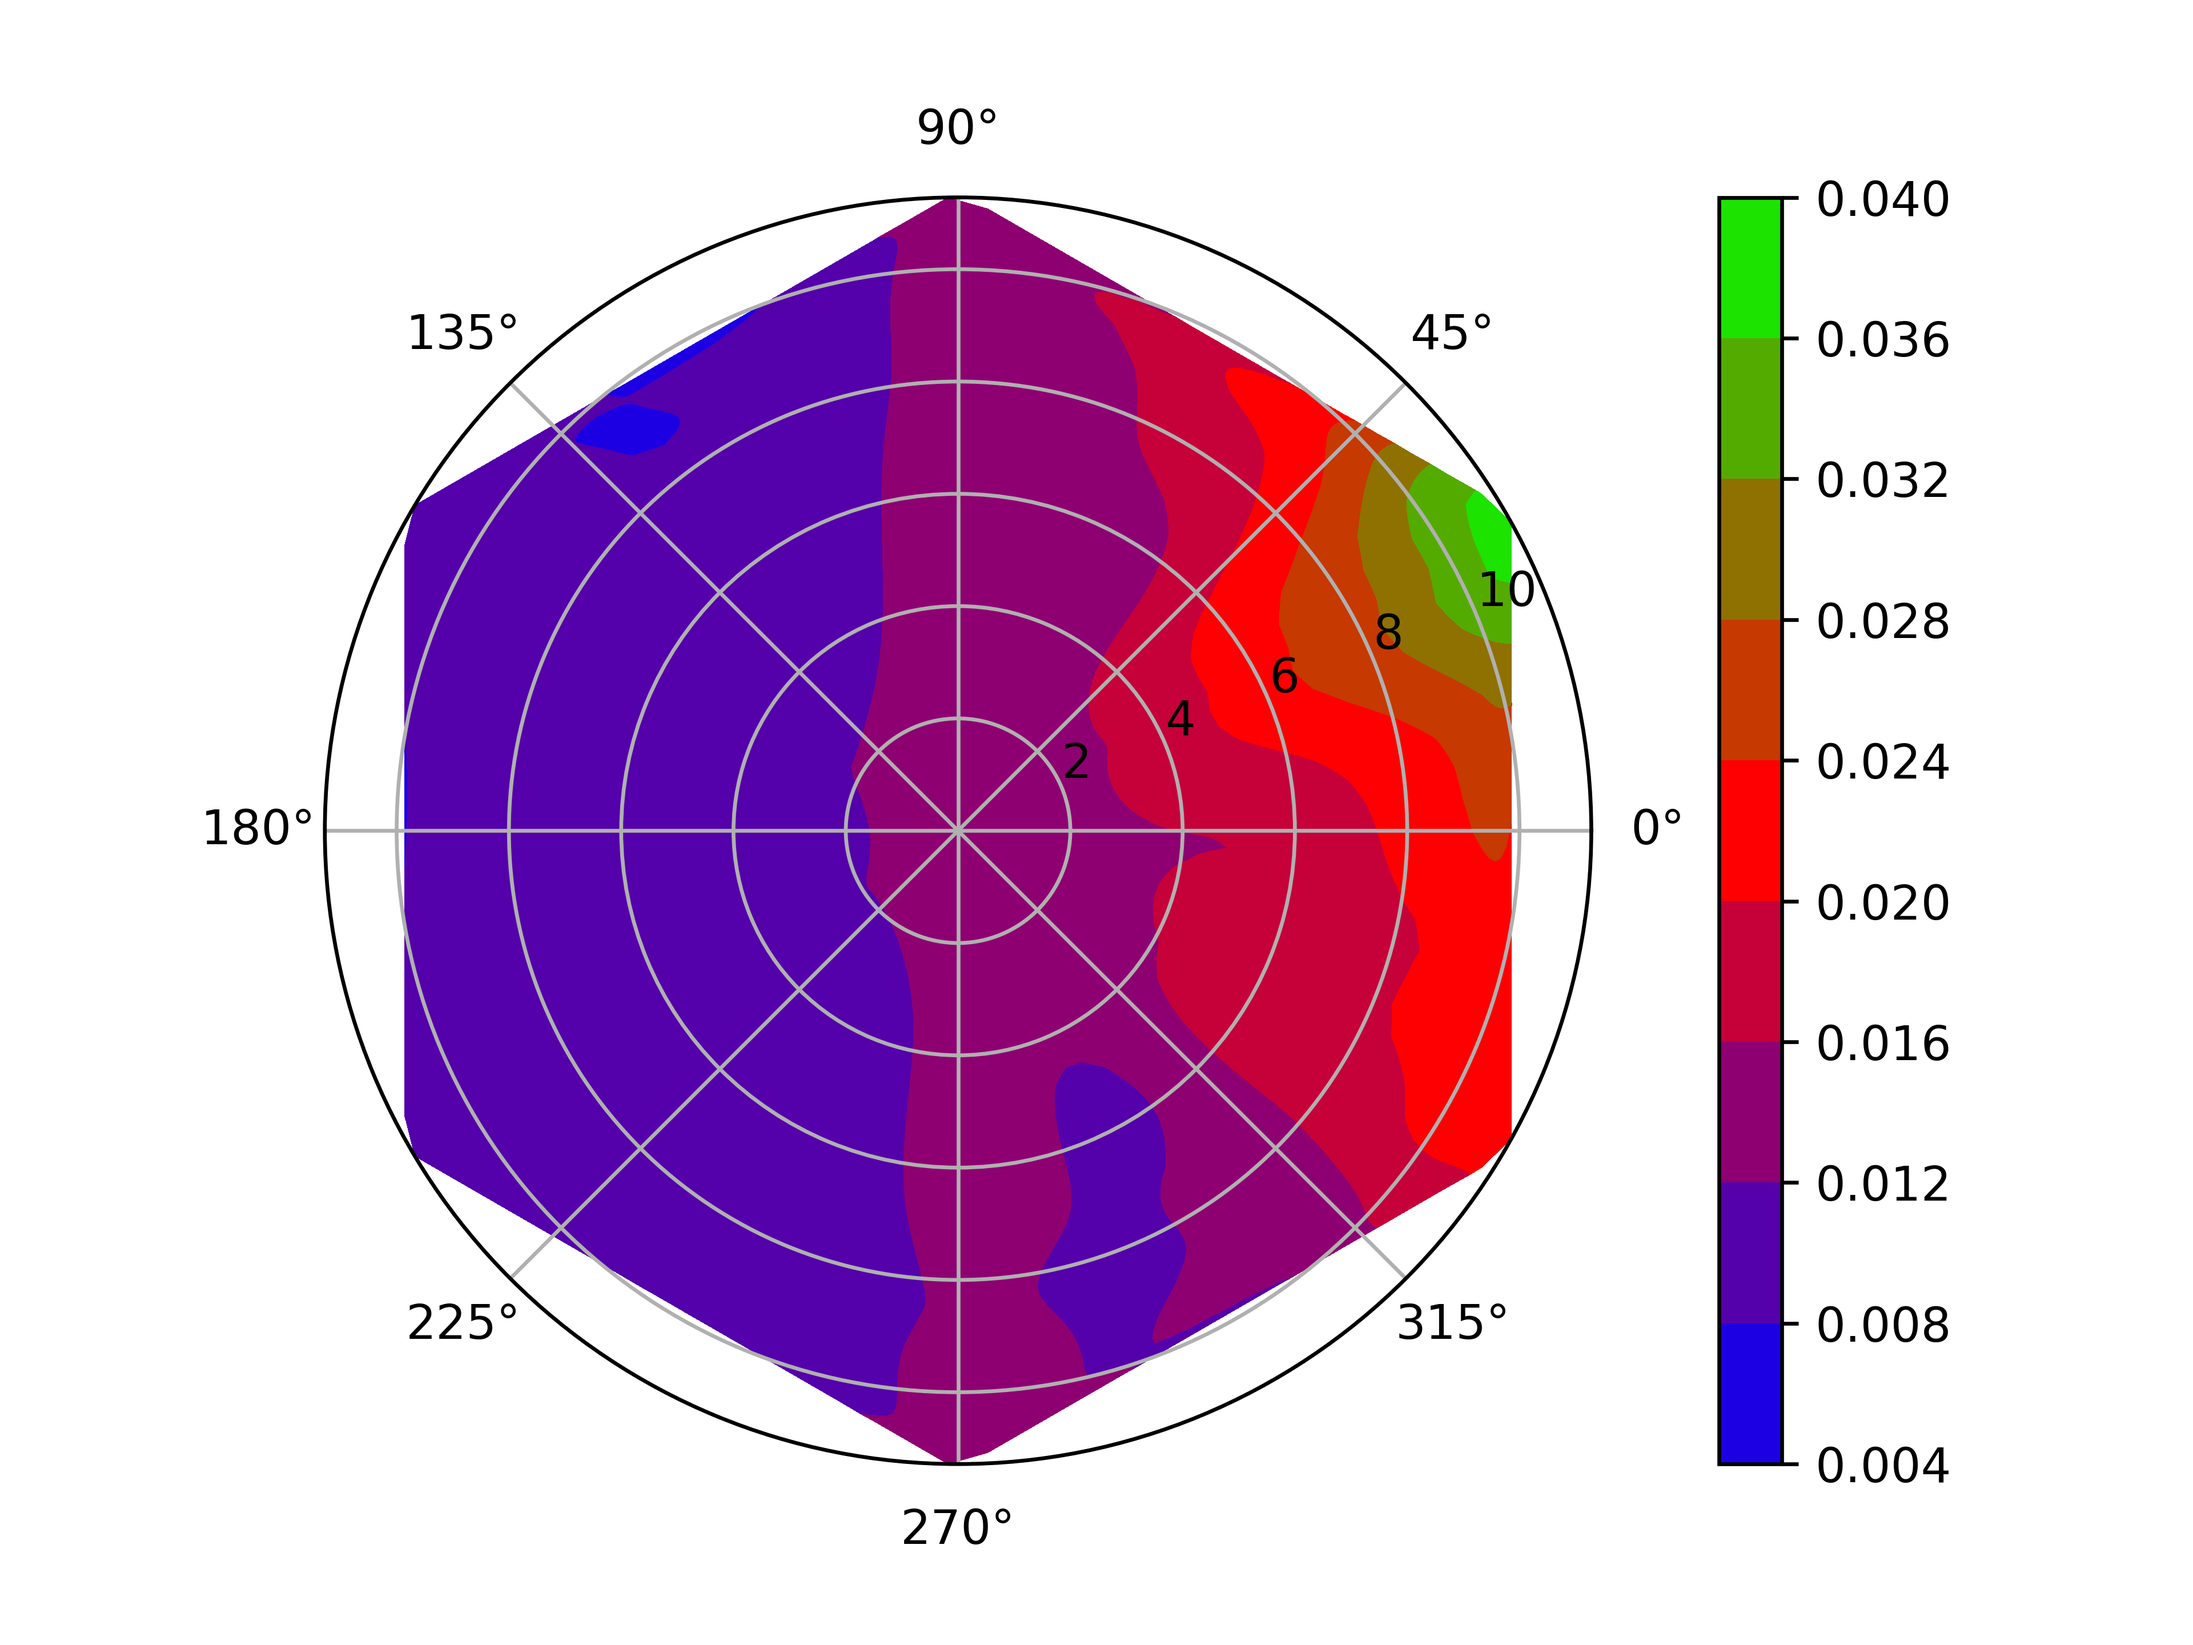
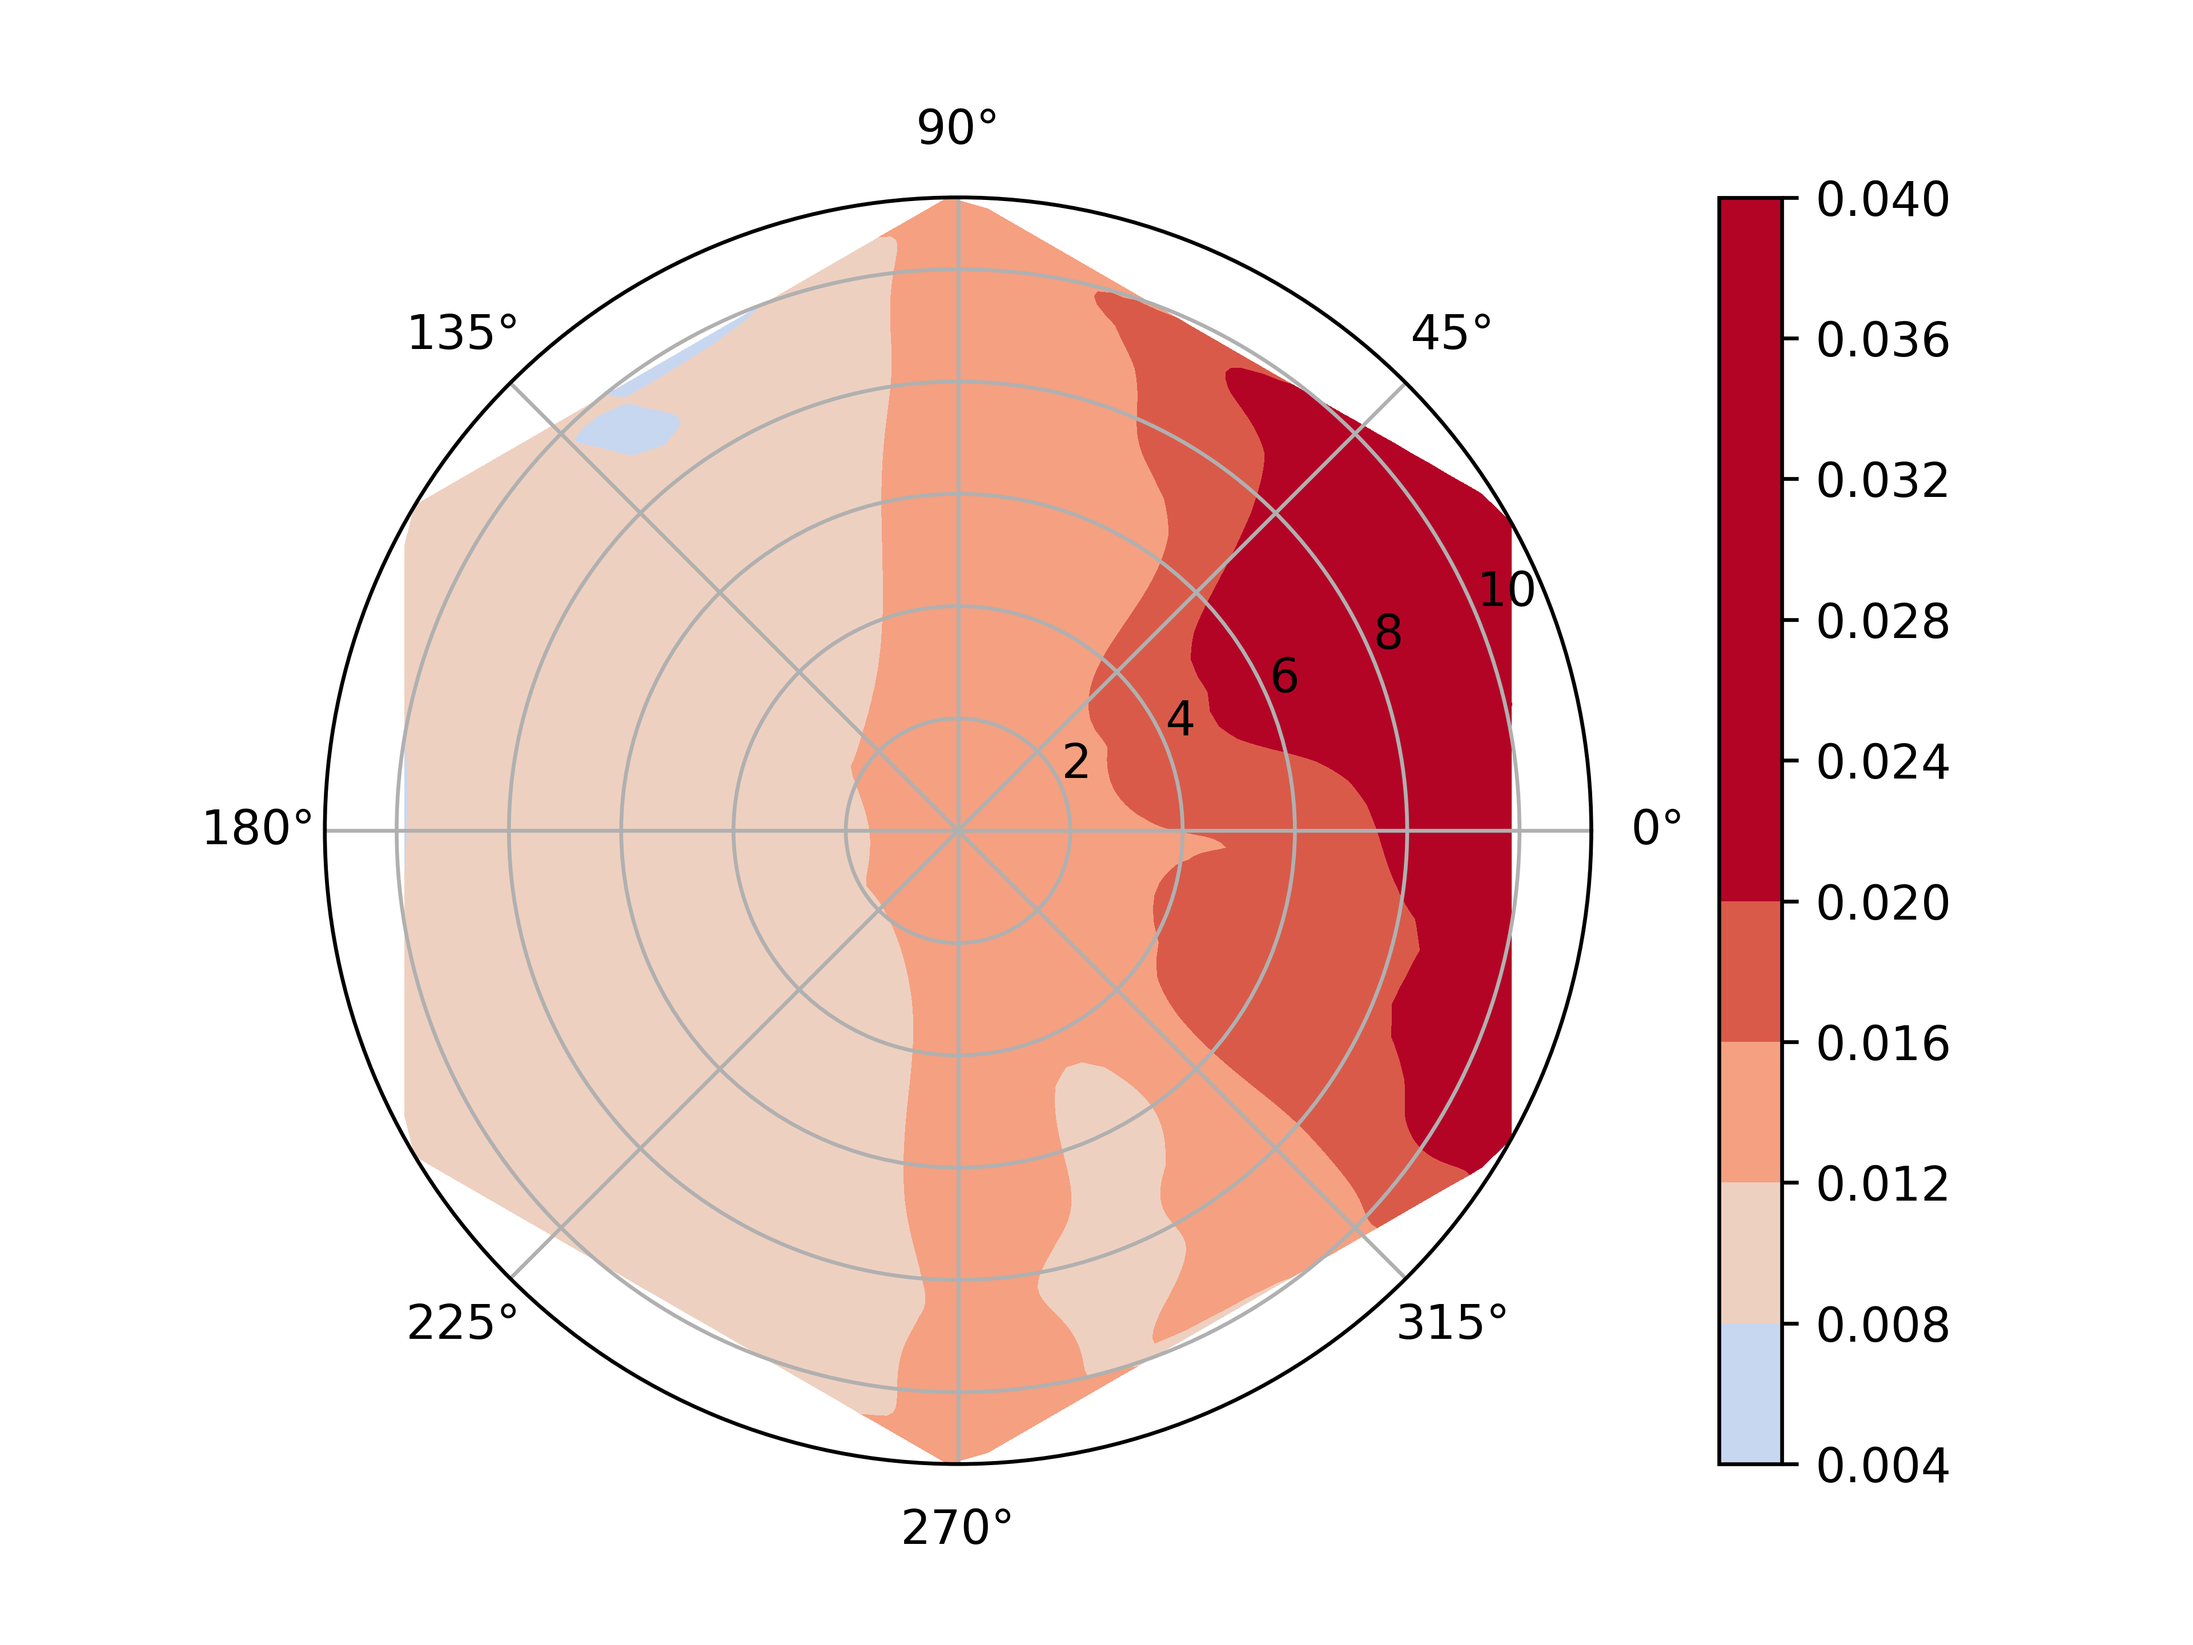
adding hex testing

diff --git a/openmc-files/incremental/complete/post-processing.py b/openmc-files/incremental/complete/post-processing.py
@@ -69,13 +69,13 @@ z_flux = zern_flux_zs(zeniths, azimuths)
 
 ### plotting
 fig, ax = plt.subplots(subplot_kw = dict(projection="polar"))
-plot = ax.contourf(theta, r, z_fission, cmap="brg")
+plot = ax.contourf(theta, r, z_fission, cmap="coolwarm", vmin=-0.005, vmax=0.021)
 fig.colorbar(plot, pad=0.075)
 plt.savefig("zernike-kappa-fission.png", dpi=600)
 plt.close()
 
 fig, ax = plt.subplots(subplot_kw = dict(projection="polar"))
-plot = ax.contourf(theta, r, z_flux, cmap="brg")
+plot = ax.contourf(theta, r, z_flux, cmap="coolwarm", vmin=-0.005, vmax=0.021)
 fig.colorbar(plot, pad=0.075)
 plt.savefig("zernike-flux.png", dpi=600)
 plt.close()
@@ -109,13 +109,13 @@ k_flux = poly_flux_zs(zeniths, azimuths)
 
 ### plotting
 fig, ax = plt.subplots(subplot_kw = dict(projection="polar"))
-plot = ax.contourf(theta, rp, k_fission, cmap='brg')
+plot = ax.contourf(theta, rp, k_fission, cmap='coolwarm', vmin=-0.005, vmax=0.021)
 fig.colorbar(plot, pad=0.075)
 plt.savefig("polygon-kappa-fission.png", dpi=600)
 plt.close()
 
 fig, ax = plt.subplots(subplot_kw = dict(projection="polar"))
-plot = ax.contourf(theta, rp, k_flux, cmap='brg')
+plot = ax.contourf(theta, rp, k_flux, cmap='coolwarm', vmin=-0.005, vmax=0.021)
 fig.colorbar(plot, pad=0.075)
 plt.savefig("polygon-flux.png", dpi=600)
 plt.close()

diff --git a/testing/hexagonal-integration.py b/testing/hexagonal-integration.py
@@ -1,0 +1,52 @@
+import numpy as np
+import matplotlib.pyplot as plt
+
+# want a function that takes a fn(x,y), a center, and a radius
+# numerically integrates the value over the hexagon w/ uniform mesh spacing
+
+def get_ys(n, h, b): return np.linspace(b - h, b + h, n)
+
+
+def get_xs(r, y, n, h, a):
+    xr = r + a - (r / 2 / h) * abs(y)
+    xl = 2 * a - xr
+
+    m = int(n * (1 - abs(y) / 2 / h))
+    return np.linspace(xl, xr, m)
+
+
+def get_coords(r, dx, a = 0, b = 0):
+    """generates a roughly evenly spaced quadrature set over a hexagon
+
+    Parameters
+    ----------
+    r : float
+        radius of the hexagon
+    dx : float
+        quadrature set spacing
+    a : float
+        x coordinate of the hexagon center
+    b : float
+        y coordiante of the hexagon center
+    """
+
+    h = r / 2 * np.tan(np.radians(60)) # height of hexagon
+    n = int(2 * h / dx) # max number of quad points, quad points at y = b
+
+    ys = get_ys(n, h, b)
+    points = []
+
+    for y in ys:
+        xs = get_xs(r, y, n, h, a)
+        for x in xs:
+            point = (x, y)
+            points.append(point)
+
+    return points
+
+
+coords = get_coords(5, 1)
+for coord in coords:
+    x,y = coord
+    plt.scatter(x,y)
+plt.show()

diff --git a/testing/coloring-hexagons.py b/testing/coloring-hexagons.py
@@ -1,0 +1,16 @@
+import matplotlib.pyplot as plt
+from matplotlib.patches import RegularPolygon as rp
+import numpy as np
+
+polygon = rp((0, 0), 6, radius=3, orientation=np.pi/2)
+
+fig, ax = plt.subplots()
+ax.set_aspect('equal')
+
+ax.add_artist(polygon)
+ax.set_axis_off()
+
+plt.xlim(-5, 5)
+plt.ylim(-5, 5)
+
+plt.show()

diff --git a/polygon_tally/aggregate.py b/polygon_tally/aggregate.py
@@ -57,8 +57,8 @@ class ApproxParent():
         
         if name != '' :
             plt.savefig(name, dpi = 600)
-        plt.close('all')
-
+        #plt.close('all')
+        plt.show()
 
 class ZApprox(ApproxParent):
 
